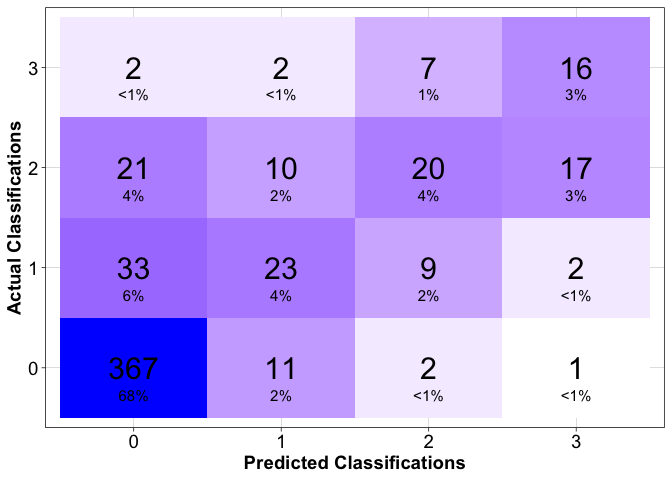
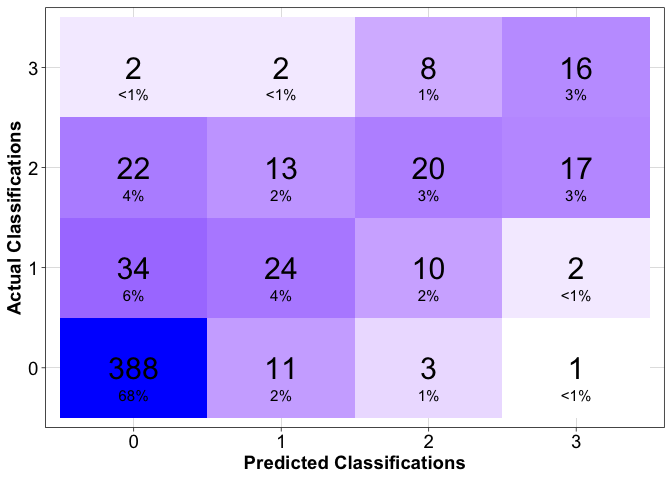
New predictions through 29 july 2022

diff --git a/README.md b/README.md
@@ -71,7 +71,7 @@ predictions <- read_forecast()
 glimpse(predictions)
 ```
 
-    ## Rows: 622
+    ## Rows: 654
     ## Columns: 18
     ## $ version             <chr> "v0.1.3", "v0.1.3", "v0.1.3", "v0.1.3", "v0.1.3", …
     ## $ ensemble_n          <dbl> 10, 10, 10, 10, 10, 10, 10, 10, 10, 10, 10, 10, 10…
@@ -116,8 +116,8 @@ glimpse(predictions)
     ## # A tibble: 1 × 2
     ##   overall_acc closure_level_acc
     ##         <dbl>             <dbl>
-    ## 1       0.785             0.593
+    ## 1       0.782             0.571
 
 ### Last Updated
 
-    ## [1] "2022-07-22"
+    ## [1] "2022-07-29"
